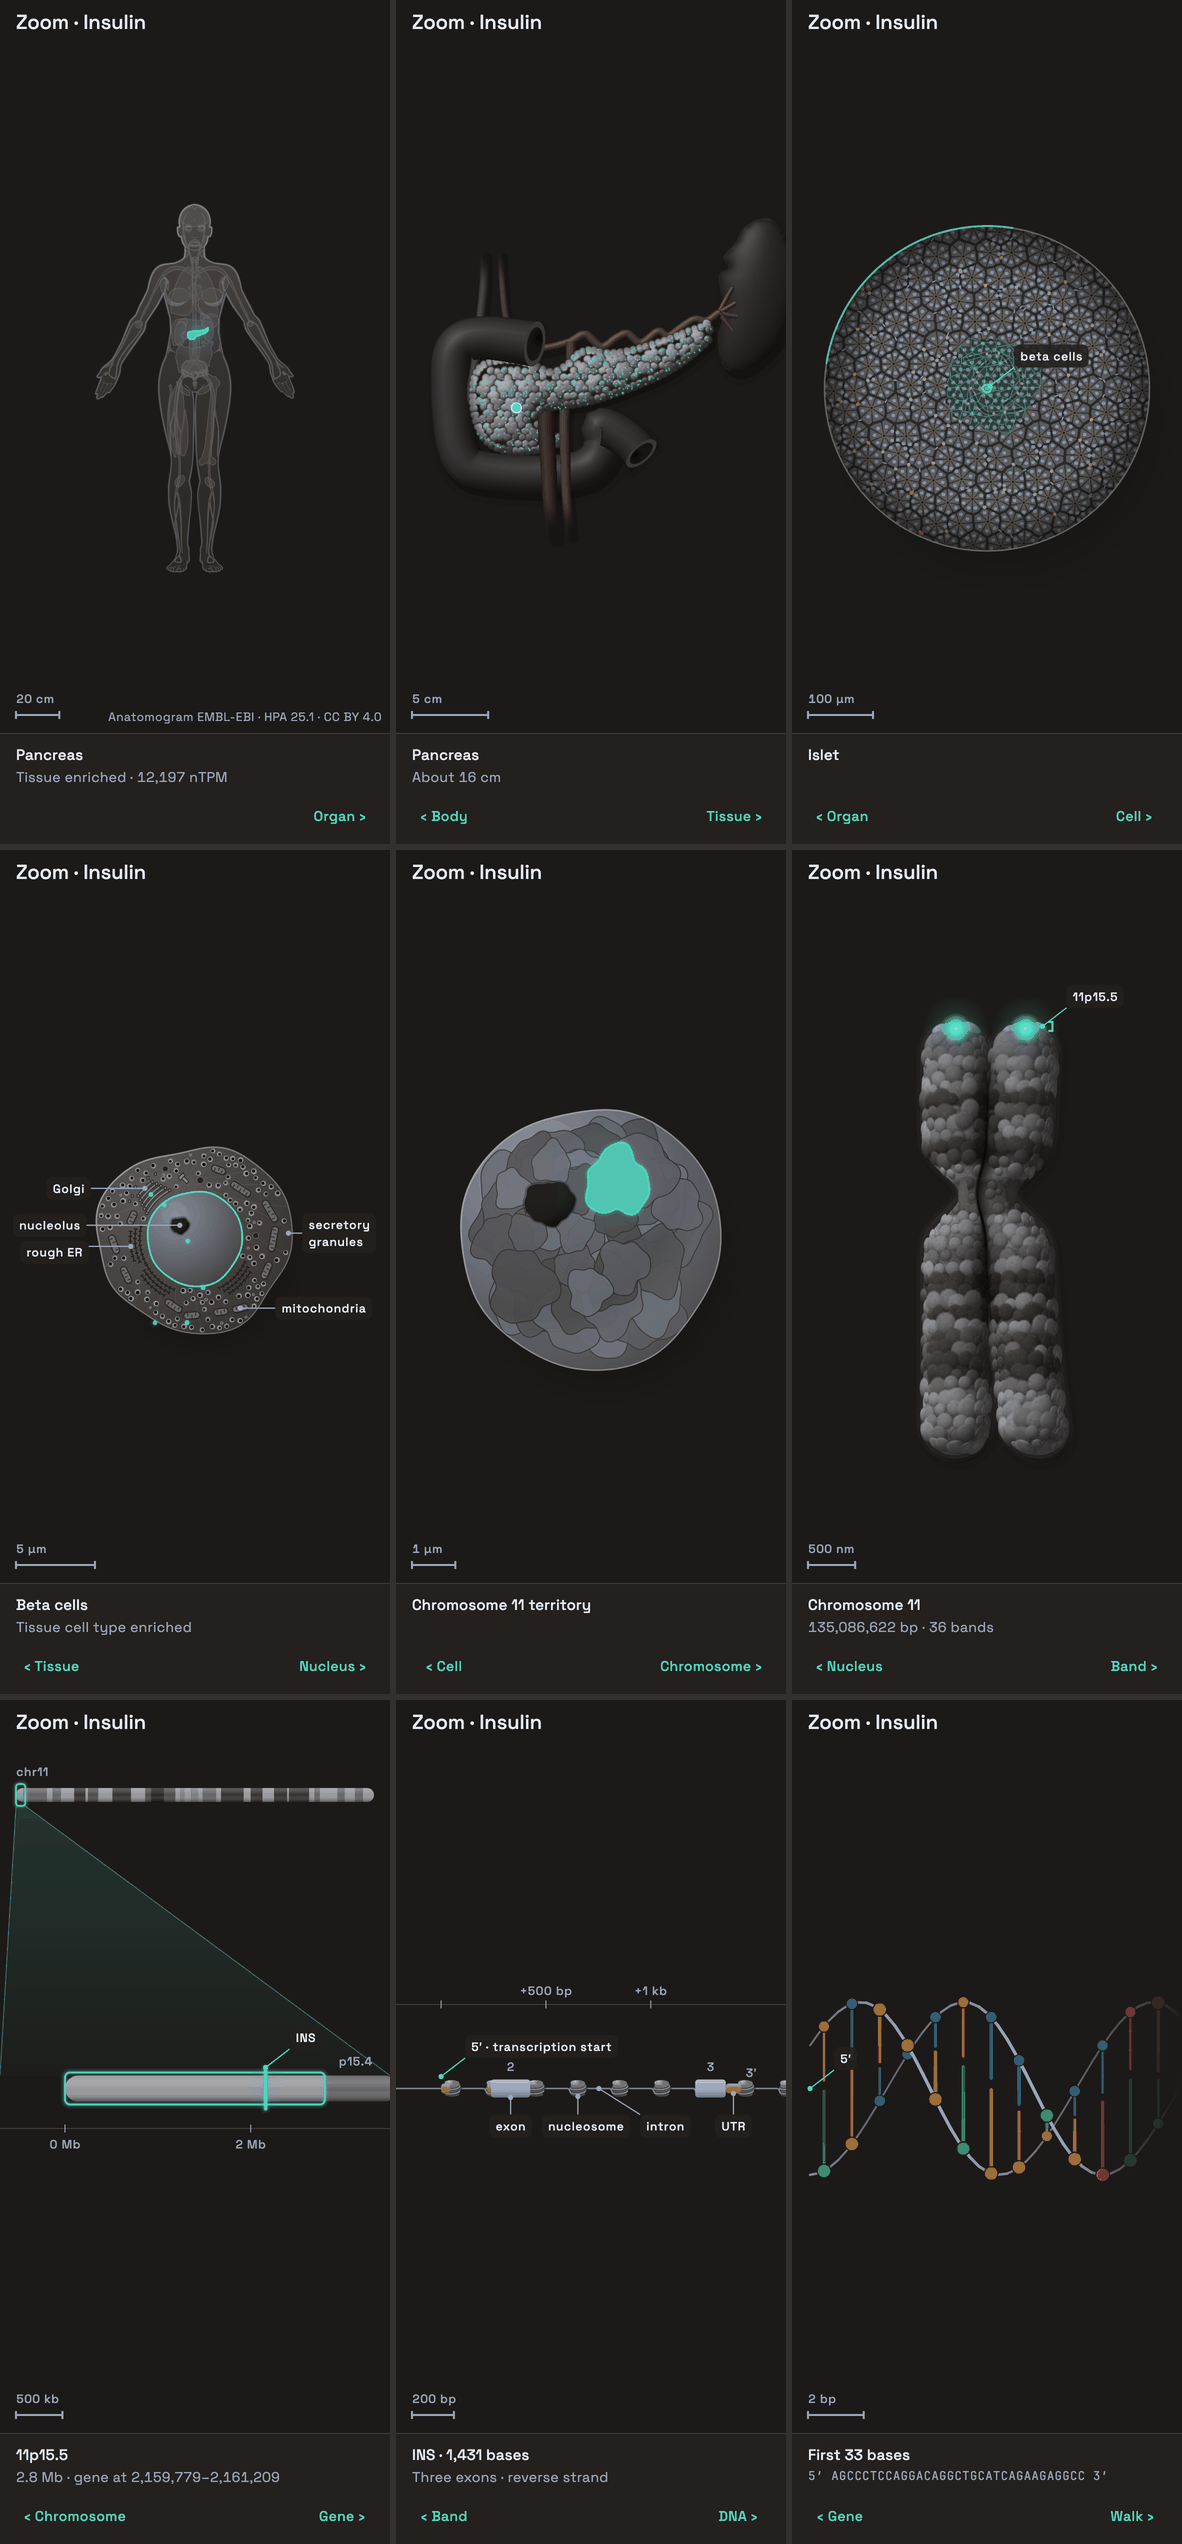
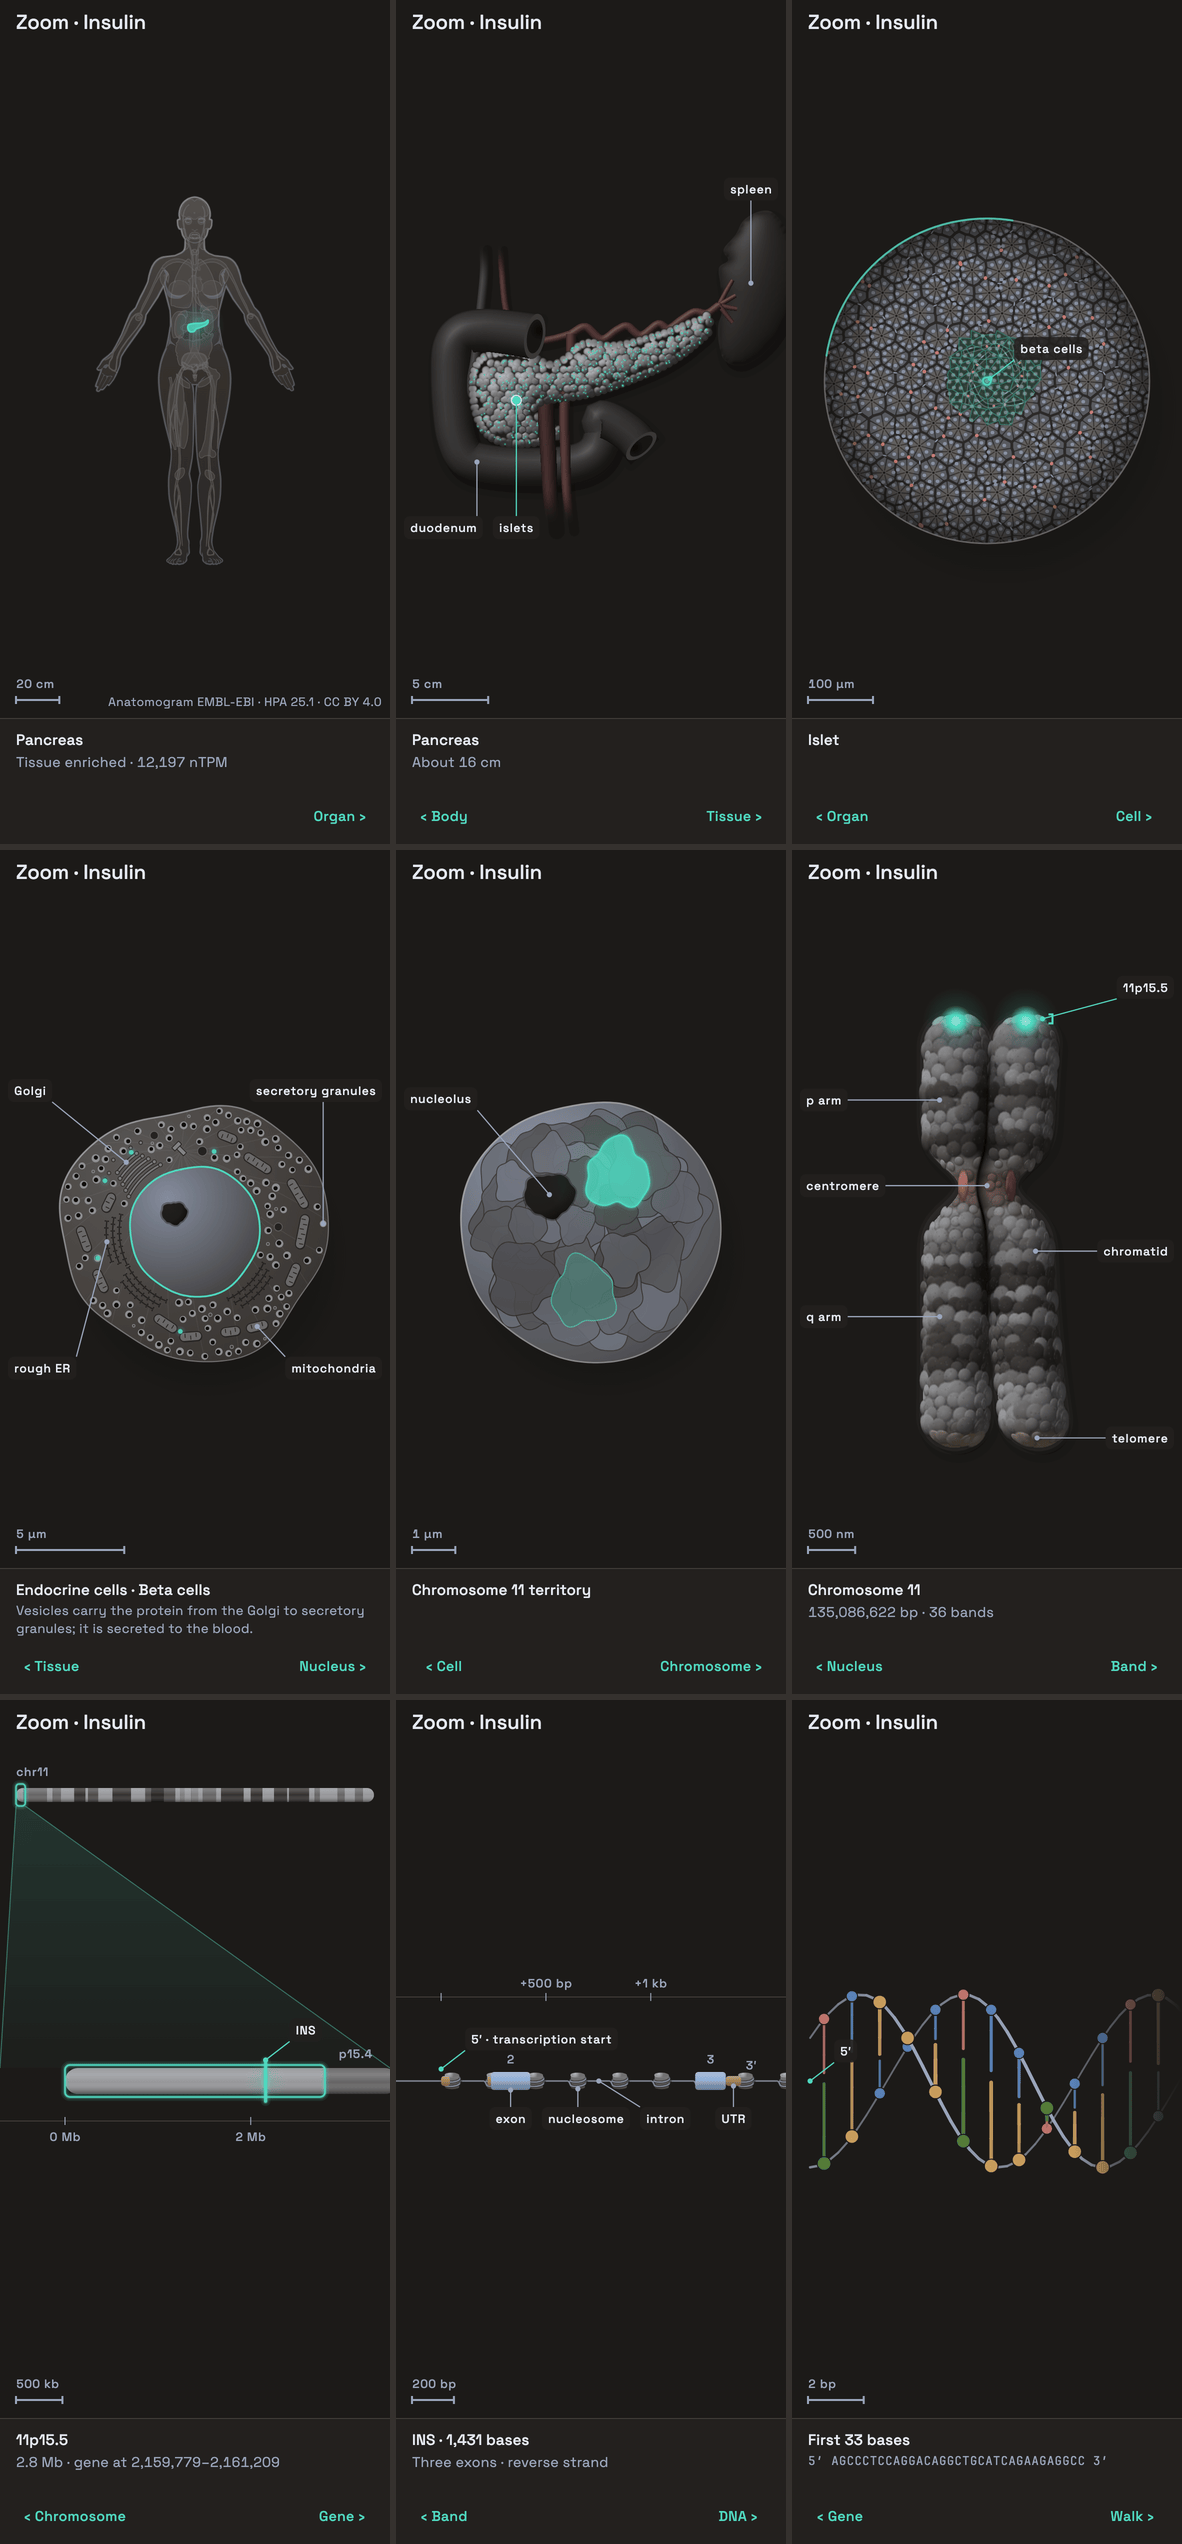
docs: the zoom's chromosome in clay and honey, its names at the edges
docs/design/zoom.md: a research bullet on where the kinetochores and the
telomeres are, and what follows for the drawing: kinetochores assemble on
the centromere at the primary constriction, a plate about 250 nm wide and
80 nm deep to each sister (Musacchio and Desai 2017, read in Europe PMC),
and FISH finds TTAGGG clusters at the telomeres of all human chromosomes
(Moyzis et al. 1988, checked in Crossref and PubMed). The visual language
names the one exception to the warm neutrals and gives the two inks a row;
the names bullet and the chromosome section say where the names now go;
the step to the band says the tints go with the micrograph; a
simplification says a telomere's cap is where one is, not how long; the
tests list says what the new tests hold. CLAUDE.md's zoom bullet says the
same in a line.

The hero is insulin's nine stops again, from 6de1dec, every panel at
once: the card grew 15 px taller on 2026-10-19, so a new chromosome panel
alone would have sat out of line with its row. It also shows what was
committed since it was last drawn: the organ's names, the cell's parts
and its card, the nucleus's other copy and its nucleolus's name, and the
helix's warm bases. Its description says so.

diff --git a/docs/design/zoom.md b/docs/design/zoom.md
@@ -1,6 +1,6 @@
 # Zoom: from a body down to one gene's DNA
 
-![Insulin's nine stops on the app's ground: a glass figure with the pancreas glowing, the pancreas sculpted with its islets in the accent, an islet under the eyepiece, a beta cell, its nucleus with chromosome 11's territory in the accent, chromosome 11 as a micrograph with the gene's two FISH spots at its tip, the band 11p15.5 under a docked map, the gene as a genome browser draws it, and the home screen's helix carrying the gene's first bases](zoom.png)
+![Insulin's nine stops on the app's ground: a glass figure with the pancreas glowing, the pancreas between its duodenum and spleen with its islets in the accent, an islet under the eyepiece, a beta cell drawn part by part, its nucleus with chromosome 11's territory in the accent and the other copy faintly, chromosome 11 as a micrograph with its centromere in clay, its ends in honey, the gene's two FISH spots at its tip and its parts named at either edge, the band 11p15.5 under a docked map, the gene as chromatin, and the home screen's helix carrying the gene's first bases](zoom.png)
 
 ## Experience
 
@@ -180,6 +180,17 @@ convention is, where it comes from, and what it decided:
   chromosome is drawn as a micrograph: two velvety sisters touching along a
   groove, knobbly with chromatin, in a soft coat, the bands soft changes of
   tone, an acrocentric's short arm whole.
+- **The centromere and the telomeres.** Kinetochores assemble on the
+  centromere, which coincides with the primary constriction a karyotype
+  shows; each is a plate about 250 nm wide and 80 nm deep against the
+  centromeric chromatin, one to each sister, and the two face opposite
+  poles once the sisters are bi-oriented (Musacchio and Desai 2017).
+  Every human chromosome ends in clusters of TTAGGG repeats, which FISH
+  finds at the telomeres of all of them (Moyzis et al. 1988): a metaphase
+  chromosome, two chromatids, has four. *Consequence:* the centromere's
+  waist is tinted and its two kinetochores are plates of that size on the
+  sisters' outer faces, and each of the four ends is capped, lightly, in
+  the home helix's clay and honey (the user's ask, 2026-10-19).
 - **A gene by FISH.** A probe hybridised to a metaphase chromosome shows as
   a spot on each sister chromatid, at the same height on both (Trask 1991;
   Baumgartner et al. 1991): it places a gene to within about a band, and is
@@ -258,6 +269,11 @@ Sources:
   vas deferens. J Ultrasound Med 2009;28:839–846.
 - Morales J et al. A joint NCBI and EMBL-EBI transcript set for clinical
   genomics and research. Nature 2022;604:310–315.
+- Moyzis RK et al. A highly conserved repetitive DNA sequence, (TTAGGG)n,
+  present at the telomeres of human chromosomes. Proc Natl Acad Sci USA
+  1988;85:6622–6626.
+- Musacchio A, Desai A. A molecular view of kinetochore assembly and
+  function. Biology (Basel) 2017;6:5.
 - Naumova N et al. Organization of the mitotic chromosome. Science
   2013;342:948–953.
 - Niimura Y, Gojobori T. In silico chromosome staining: reconstruction of
@@ -318,7 +334,10 @@ Sources:
 - **Everything else is sculpted** in the app's warm neutrals, under one
   light from the upper left (`Sculpt`): a lit body from the surfaces up
   toward the bright ink, a rim where the light catches an edge, a soft
-  shadow under the form, and fine line work in the quiet ink.
+  shadow under the form, and fine line work in the quiet ink. A
+  chromosome's centromere and its telomeres alone are tinted, lightly, in
+  the home helix's clay and honey (the user's ask, 2026-10-19), so they
+  read apart from its arms.
 - **Data keeps its colours.** The gene's parts are the walk's role colours,
   the bases the home helix's (`NucleotideColors.helix`), and blood the
   thymine red, the one red the app has.
@@ -331,7 +350,8 @@ Sources:
   names are round the cell, in the band above or below it nearer the
   nucleolus, out at the canvas's edge on the nucleolus's side, which is the
   left, the nucleolus lying toward the light (the user's ask, 2026-10-19);
-  beside the chromosome, level with each part (see "Chromosome" below).
+  in a column against the canvas's edge either side of the chromosome,
+  level with each part (see "Chromosome" below).
   Each keeps the place it has at rest through the steps either side, so it
   never jumps: an anchored name its anchor, or, where none of its anchors
   had room at rest, the place of the painter's own it took there.
@@ -350,6 +370,7 @@ Every colour comes from `ZoomInks`, built from the theme:
 | `mark`, `markDeep` | `primary`, `primaryContainer` | the gene and what it makes (`glow(a)`) |
 | `shadow` | the ground three quarters of the way to black | shadows under forms |
 | `blood` | the walk's thymine | red cells |
+| `centromere`, `telomere` | the home helix's thymine and guanine (`NucleotideColors.helix`) | a chromosome's centromere and kinetochores (clay), its telomeres (honey) |
 | `bases` | `NucleotideColors.helix` | the helix's bases |
 | `cds`, `utr`, `intron` | `AnatomyColors`' roles | the gene's parts |
 
@@ -778,6 +799,13 @@ proteins on one chromosome share it and only their gene tells them apart.
   the groove. A soft coat lies round them and a shadow under them.
 - The G-bands as soft changes of tone through the relief, the same height
   on both sisters, `gvar` an even grey.
+- The centromere's waist tinted lightly in the home helix's clay, and its
+  two kinetochores in it, plates on the sisters' outer faces at their true
+  size, each seated in a crevice and lit as a lobe is; every chromatid's
+  two ends capped in the helix's honey (the user's ask, 2026-10-19). A
+  tint is the chromatin's own colour there, so the light and the relief
+  read through it, and it stops at the gene's band, which keeps its own
+  wash: insulin's two upper ends, in 11p15.5, are the accent's.
 - Nothing narrower anywhere but the centromere and the two ends. On an
   acrocentric the short arm is whole, as thick as any arm: its satellite
   and `stalk` are bands like any other, since a stalk drawn thin, as a
@@ -786,16 +814,19 @@ proteins on one chromosome share it and only their gene tells them apart.
 - The gene as FISH marks one: two soft spots in the accent, one on each
   sister at its height, over a faint wash of its band, which is bracketed
   and named. The spots flare once as the stop is reached.
-- Its parts named in the quiet ink (the user's ask, 2026-10-19), each
-  just off the chromosome's outer edge, level with what it names: the p
-  arm (its middle), the centromere and the q arm (its middle) on the left;
-  a chromatid and a telomere on the right, where the band's name is too.
-  The telomere named is at the end further from the gene's band, and the
-  chromatid at whichever of a quarter, 45% and 65% of the way down the q
-  arm is furthest from both, so no name on the right crowds another. A
-  name with no room level with its part is set a little below it or
-  above, and only then on the other side. They come and go with the
-  band's name.
+- Its parts named in the quiet ink (the user's ask, 2026-10-19), in a
+  column against the canvas's edge on each side, 8 pt in, as a cell's
+  names are, each level with what it names: the p arm (its middle), the
+  centromere and the q arm (its middle) on the left; a chromatid and a
+  telomere on the right, under the band's name, which heads that column
+  above its band (below it where there is no room above, and higher for a
+  band at the foot of a squat canvas). The telomere named is at the end
+  further from the gene's band, and the chromatid at whichever of a
+  quarter, 45% and 65% of the way down the q arm is furthest from both,
+  so no name on the right crowds another. A name with no room level with
+  its part is set a little below it or above, and only then on the other
+  side; no plate comes nearer the chromosome than 14 pt off its outer
+  edge. They come and go with the band's name.
 
 It is never the gene: the band is millions of base pairs, a stain pattern
 seen at low resolution, and the spots are a probe's. Each sister is a mesh
@@ -822,7 +853,8 @@ a change of scale (0.07 decades for chromosome 1), and the minimum travel
 gives it its room.
 
 **Into the map.**
-- On the way out, the micrograph fades over the first 30% of the step.
+- On the way out, the micrograph, its tints with it, fades over the first
+  30% of the step.
   Under it the chromosome turns about its band to lie along the genome,
   short arm to the left as genome browsers draw it, as one smooth tube
   (`ChromosomeTube`, laid afresh each frame), all over the first 35%:
@@ -1101,6 +1133,9 @@ frame (0.4 to 0.8 ms).
   not imaged.
 - **A probe's spot.** The FISH spots are as big whatever the gene's length:
   they say where the gene is, to within its band, not how long it is.
+- **Caps for telomeres.** A telomere is a run of repeats far too short to
+  see at this scale: each cap says where one is, as the FISH spots say
+  where the gene is, not how long it is.
 
 ## Implementation and checks
 
@@ -1166,8 +1201,10 @@ frame (0.4 to 0.8 ms).
 - The chromosome's tests: `chromosome_scene_test` (nothing narrower than
   its arms but the centromere and the ends), `chromosome_form_test` (the
   same form every time and for every protein on one chromosome, the knobs
-  on their sisters, the spots), `chromosome_art_test` (the tones in order,
-  the accent only in the gene's band, at rest and turning, the meshes'
+  on their sisters, the spots, each tint within its reach of the
+  centromere or an end and never in the gene's band), `chromosome_art_test`
+  (the tones in order, the accent only in the gene's band, at rest and
+  turning, the clay and the honey only within their reaches, the meshes'
   sizes, a translucent vertex over the ground) and
   `chromosome_handover_test` (the territory handed over to half a pixel,
   the condensing step's last frames the stop's, every band edge of the
@@ -1176,9 +1213,10 @@ frame (0.4 to 0.8 ms).
   twenty). `test/zoom_paint_timing_check.dart` times closer moments through
   the chromosome's two steps. `chromosome_names_test` sets the parts'
   names in the app's own type for every curated protein, on a phone's
-  canvas, an iPhone SE's and a 320 pt one: each on its own side, level with
-  its part or a step off it, its point on the chromosome, its plate over
-  none of it.
+  canvas, an iPhone SE's and a 320 pt one: each on its own side against
+  that edge, level with its part or a step off it, its point on the
+  chromosome, its plate over none of it, and the band's name against the
+  right edge.
 - `nucleolus_test` holds the nucleolus to one shape in one place across the
   step from the cell to the nucleus (to half a pixel), its name to the
   nucleus and no other stop (which names nothing else), landing on it, set

diff --git a/CLAUDE.md b/CLAUDE.md
@@ -293,12 +293,14 @@ seen:
   its left;
 - a metaphase chromosome drawn as a scanning micrograph shows one
   (`presentation/scenes/chromosome/`): two knobbly sisters, its G-bands
-  soft changes of tone, the gene two FISH spots in the accent, its parts
+  soft changes of tone, the gene two FISH spots in the accent, its
+  centromere's waist and two kinetochores tinted lightly in the home
+  helix's clay and its four chromatid ends capped in its honey, its parts
   (p arm, centromere, q arm, chromatid, telomere) named in the quiet ink
-  beside it, level with each (the user's ask of 2026-10-19). It condenses
-  out of its territory, and on the way out turns into a smooth tube that
-  is, by the time it lies along the genome, the band map's strip pixel for
-  pixel;
+  in a column at either edge of the canvas, level with each (the user's
+  asks of 2026-10-19). It condenses out of its territory, and on the way
+  out turns into a smooth tube that is, by the time it lies along the
+  genome, the band map's strip pixel for pixel;
 - a genome map of the band opened out of the whole chromosome; the gene,
   opened out of its mark on the band's strip, as a genome browser draws a
   transcript, the record's exons at their real lengths, still (its own stop
@@ -320,7 +322,8 @@ explains: there is no About sheet, no source tag and no player. Its
 colours are the app's own (`ZoomInks`): one ground at every stop, the
 accent for the gene and what it makes (the organs its RNA is raised in, its
 cell, its protein, its chromosome, its band) and nothing else, and every
-other form sculpted in the warm neutrals; `zoom_inks_test` holds that no
+other form sculpted in the warm neutrals but a chromosome's centromere and
+telomeres, in the helix's clay and honey; `zoom_inks_test` holds that no
 colour in the zoom is written out as a number. `docs/design/zoom.md` has
 the design and its checks.
 
